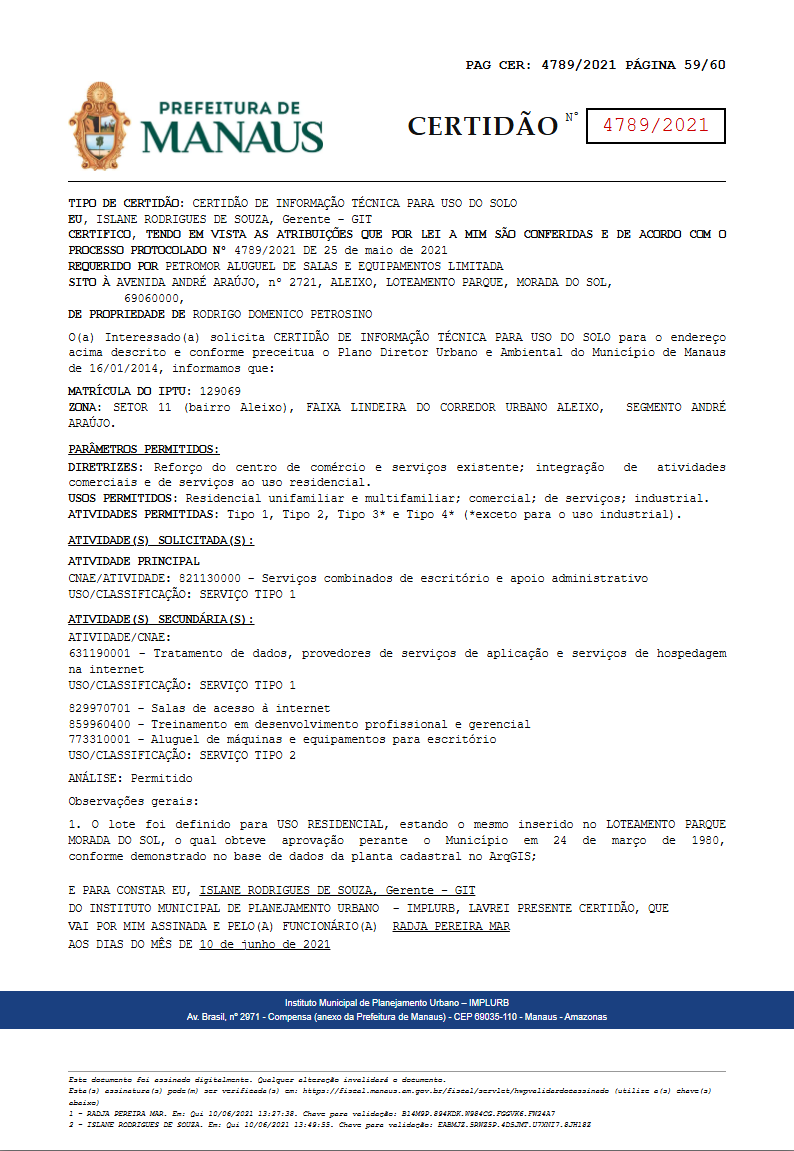
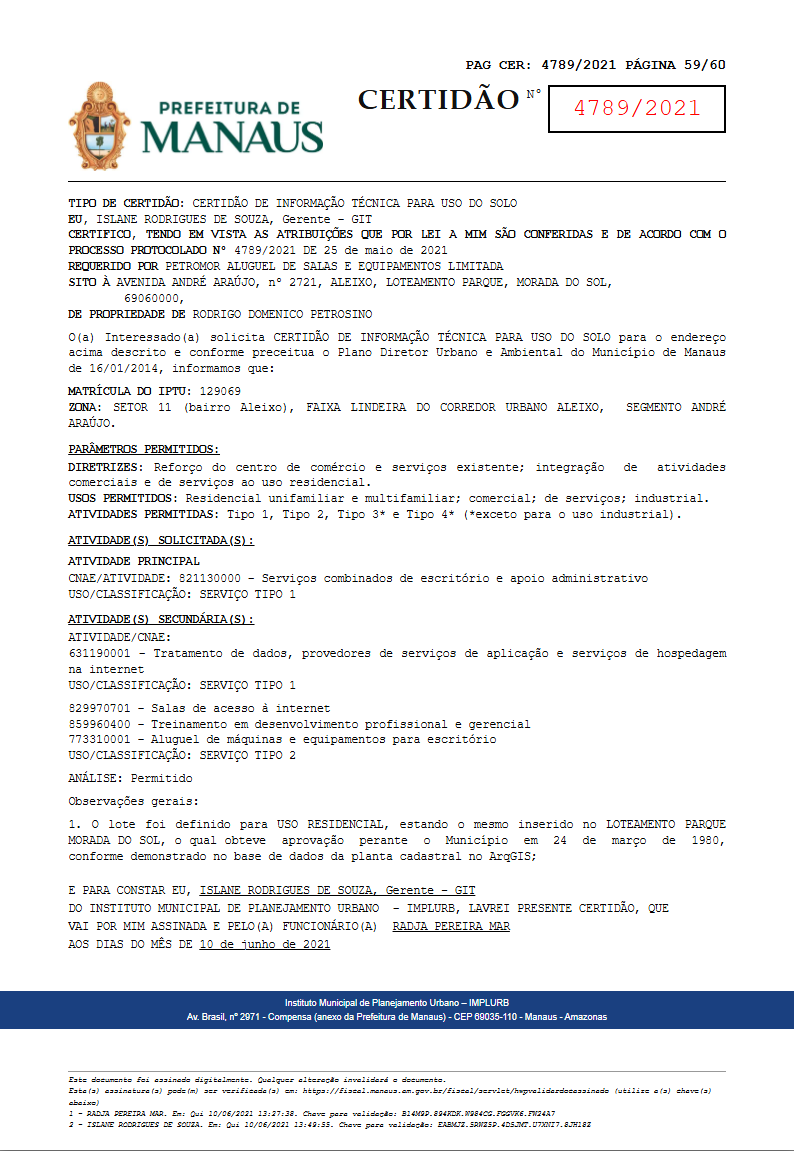
auto-sync: 2026-04-27 10:06

Changed region(s): [[0.4534, 0.0608, 0.9068, 0.1216]]

diff --git a/dados/certidao-template.html b/dados/certidao-template.html
@@ -34,7 +34,7 @@
 
   .header {
     display: flex;
-    align-items: center;
+    align-items: flex-start;
     justify-content: space-between;
     padding-bottom: 10px;
     border-bottom: 1.5px solid #000;
@@ -48,13 +48,14 @@
 
   .certidao-block {
     display: flex;
-    align-items: center;
+    align-items: flex-start;
     gap: 6px;
+    padding-top: 4px;
   }
 
   .certidao-title {
     font-family: "Palatino Linotype", "Book Antiqua", Palatino, Georgia, serif;
-    font-size: 26px;
+    font-size: 28px;
     font-weight: bold;
     letter-spacing: 1px;
     color: #111;
@@ -63,23 +64,21 @@
 
   .certidao-sup {
     font-family: "Courier New", Courier, monospace;
-    font-size: 12px;
+    font-size: 13px;
     font-weight: 400;
-    align-self: flex-start;
-    margin-top: 3px;
+    margin-top: 2px;
     color: #111;
   }
 
   .certidao-num-box {
     background: transparent;
-    color: #cc0000;
+    color: #ff0000;
     font-family: "Courier New", Courier, monospace;
-    font-size: 20px;
+    font-size: 24px;
     font-weight: 400;
-    padding: 6px 14px;
+    padding: 10px 22px;
     border: 2px solid #000;
     line-height: 1;
-    align-self: stretch;
     display: flex;
     align-items: center;
   }

diff --git a/dados/build-html.py b/dados/build-html.py
@@ -39,7 +39,7 @@ html = """<!DOCTYPE html>
 
   .header {
     display: flex;
-    align-items: center;
+    align-items: flex-start;
     justify-content: space-between;
     padding-bottom: 10px;
     border-bottom: 1.5px solid #000;
@@ -53,13 +53,14 @@ html = """<!DOCTYPE html>
 
   .certidao-block {
     display: flex;
-    align-items: center;
+    align-items: flex-start;
     gap: 6px;
+    padding-top: 4px;
   }
 
   .certidao-title {
     font-family: "Palatino Linotype", "Book Antiqua", Palatino, Georgia, serif;
-    font-size: 26px;
+    font-size: 28px;
     font-weight: bold;
     letter-spacing: 1px;
     color: #111;
@@ -68,23 +69,21 @@ html = """<!DOCTYPE html>
 
   .certidao-sup {
     font-family: "Courier New", Courier, monospace;
-    font-size: 12px;
+    font-size: 13px;
     font-weight: 400;
-    align-self: flex-start;
-    margin-top: 3px;
+    margin-top: 2px;
     color: #111;
   }
 
   .certidao-num-box {
     background: transparent;
-    color: #cc0000;
+    color: #ff0000;
     font-family: "Courier New", Courier, monospace;
-    font-size: 20px;
+    font-size: 24px;
     font-weight: 400;
-    padding: 6px 14px;
+    padding: 10px 22px;
     border: 2px solid #000;
     line-height: 1;
-    align-self: stretch;
     display: flex;
     align-items: center;
   }
